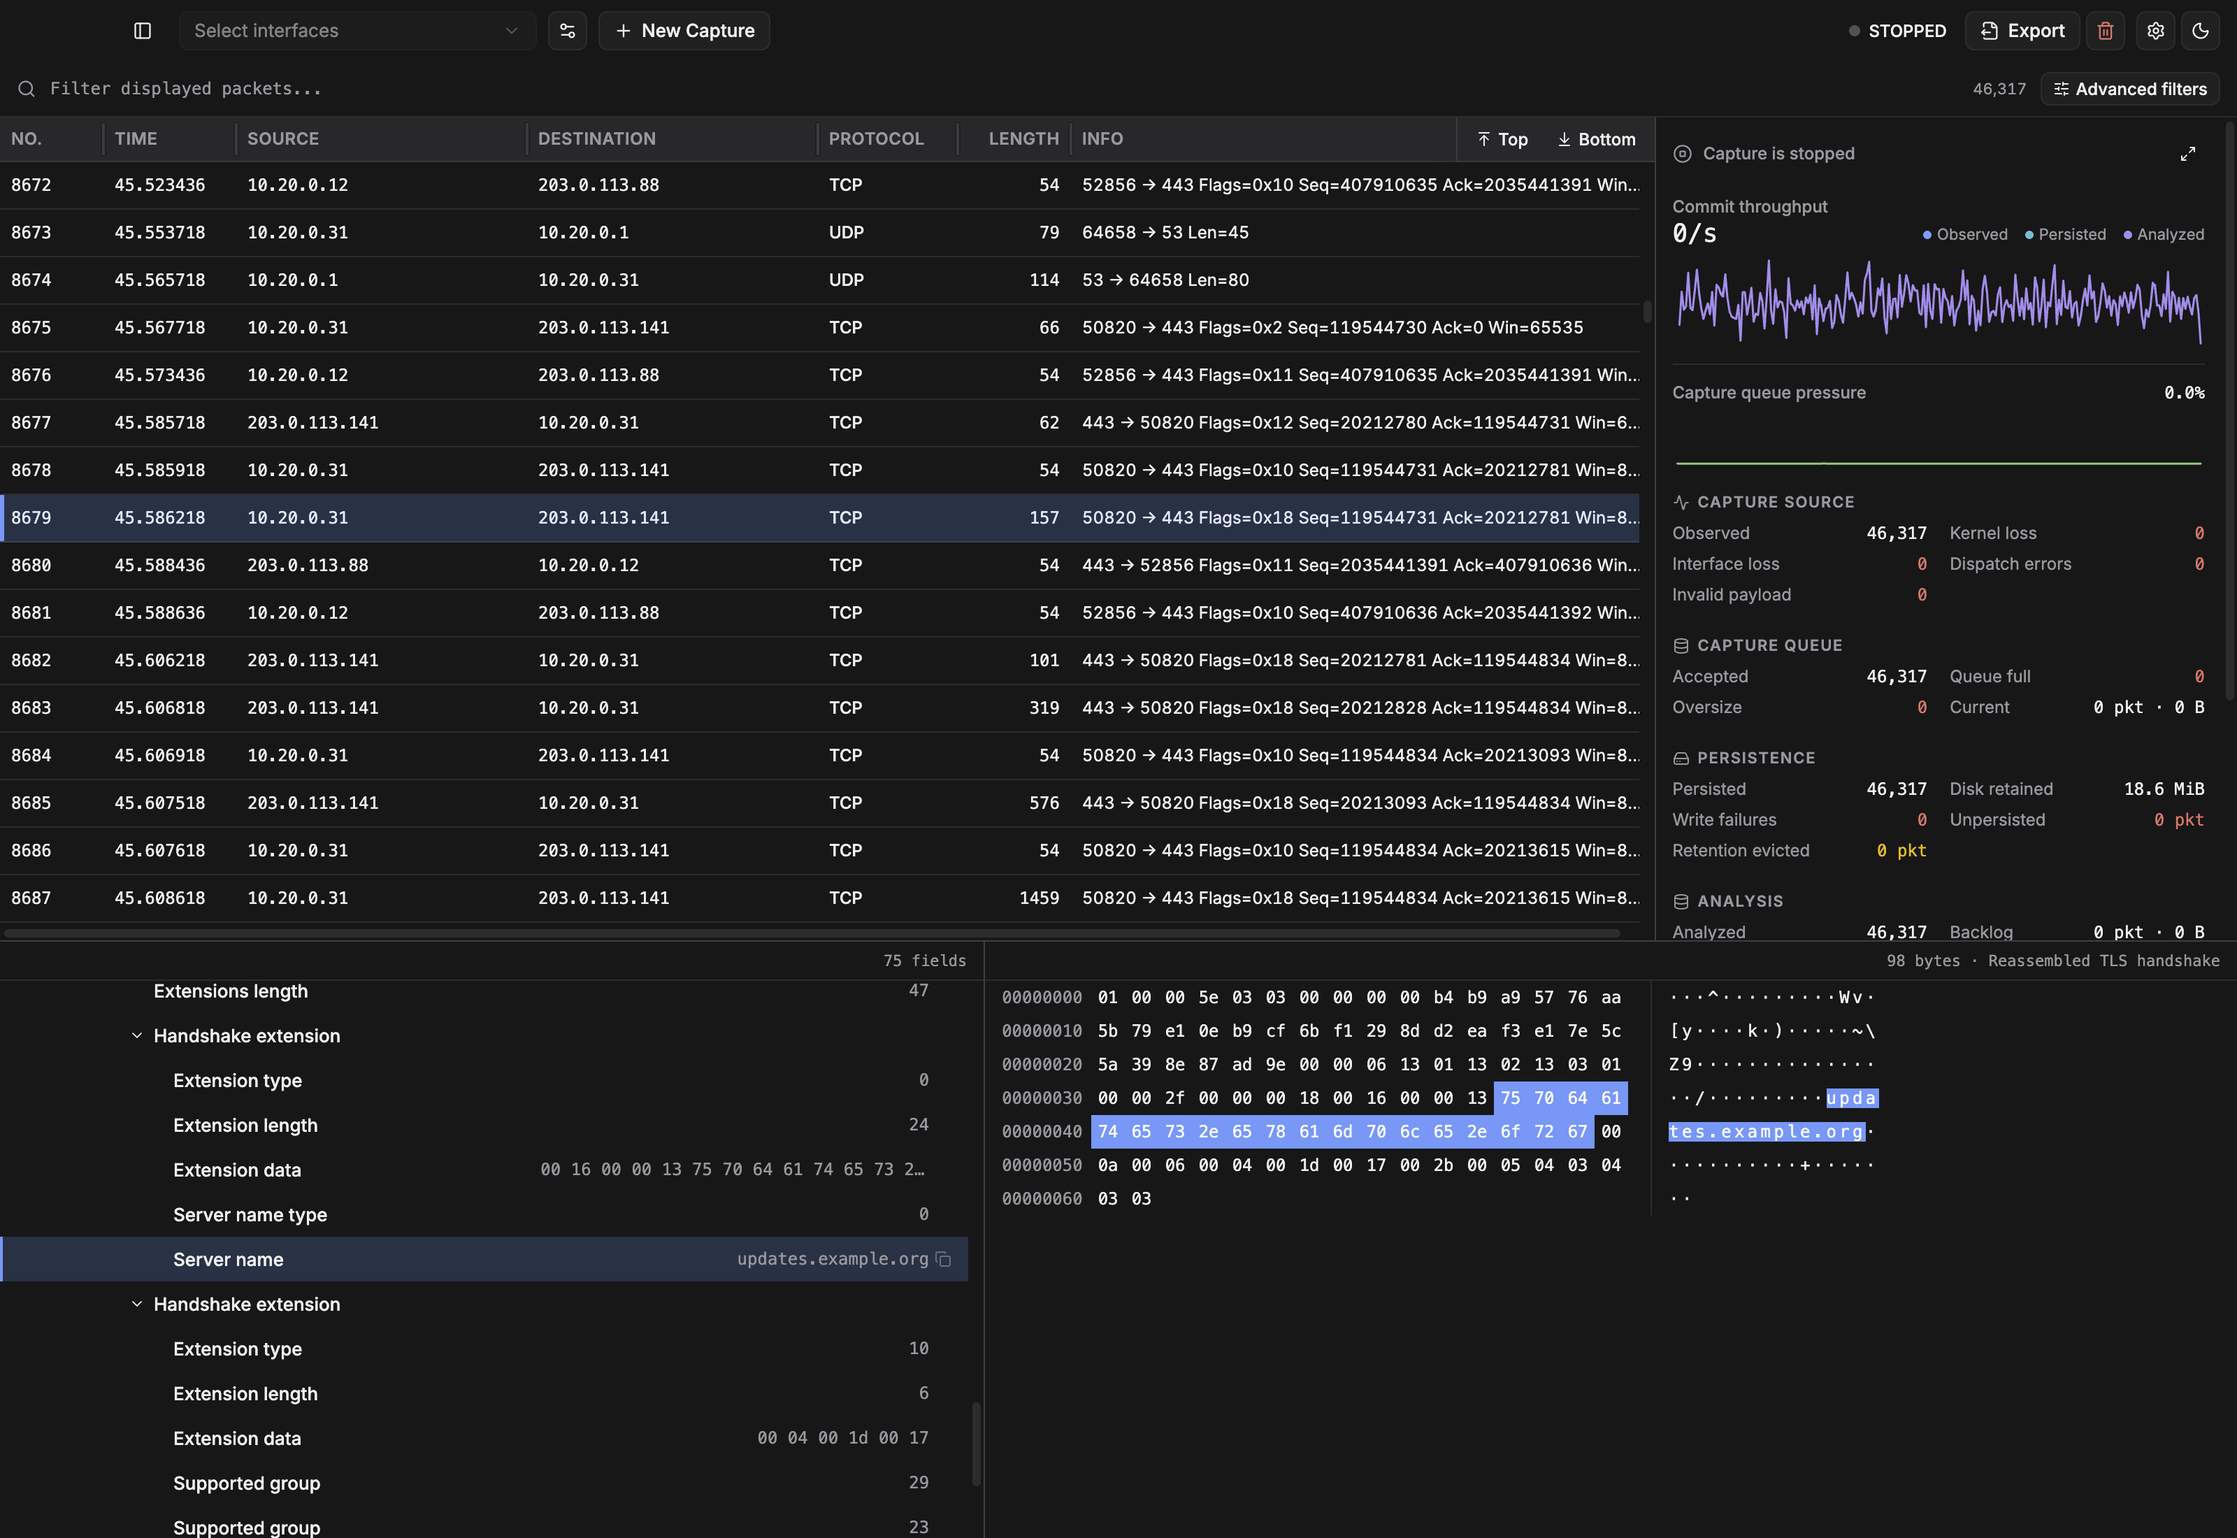
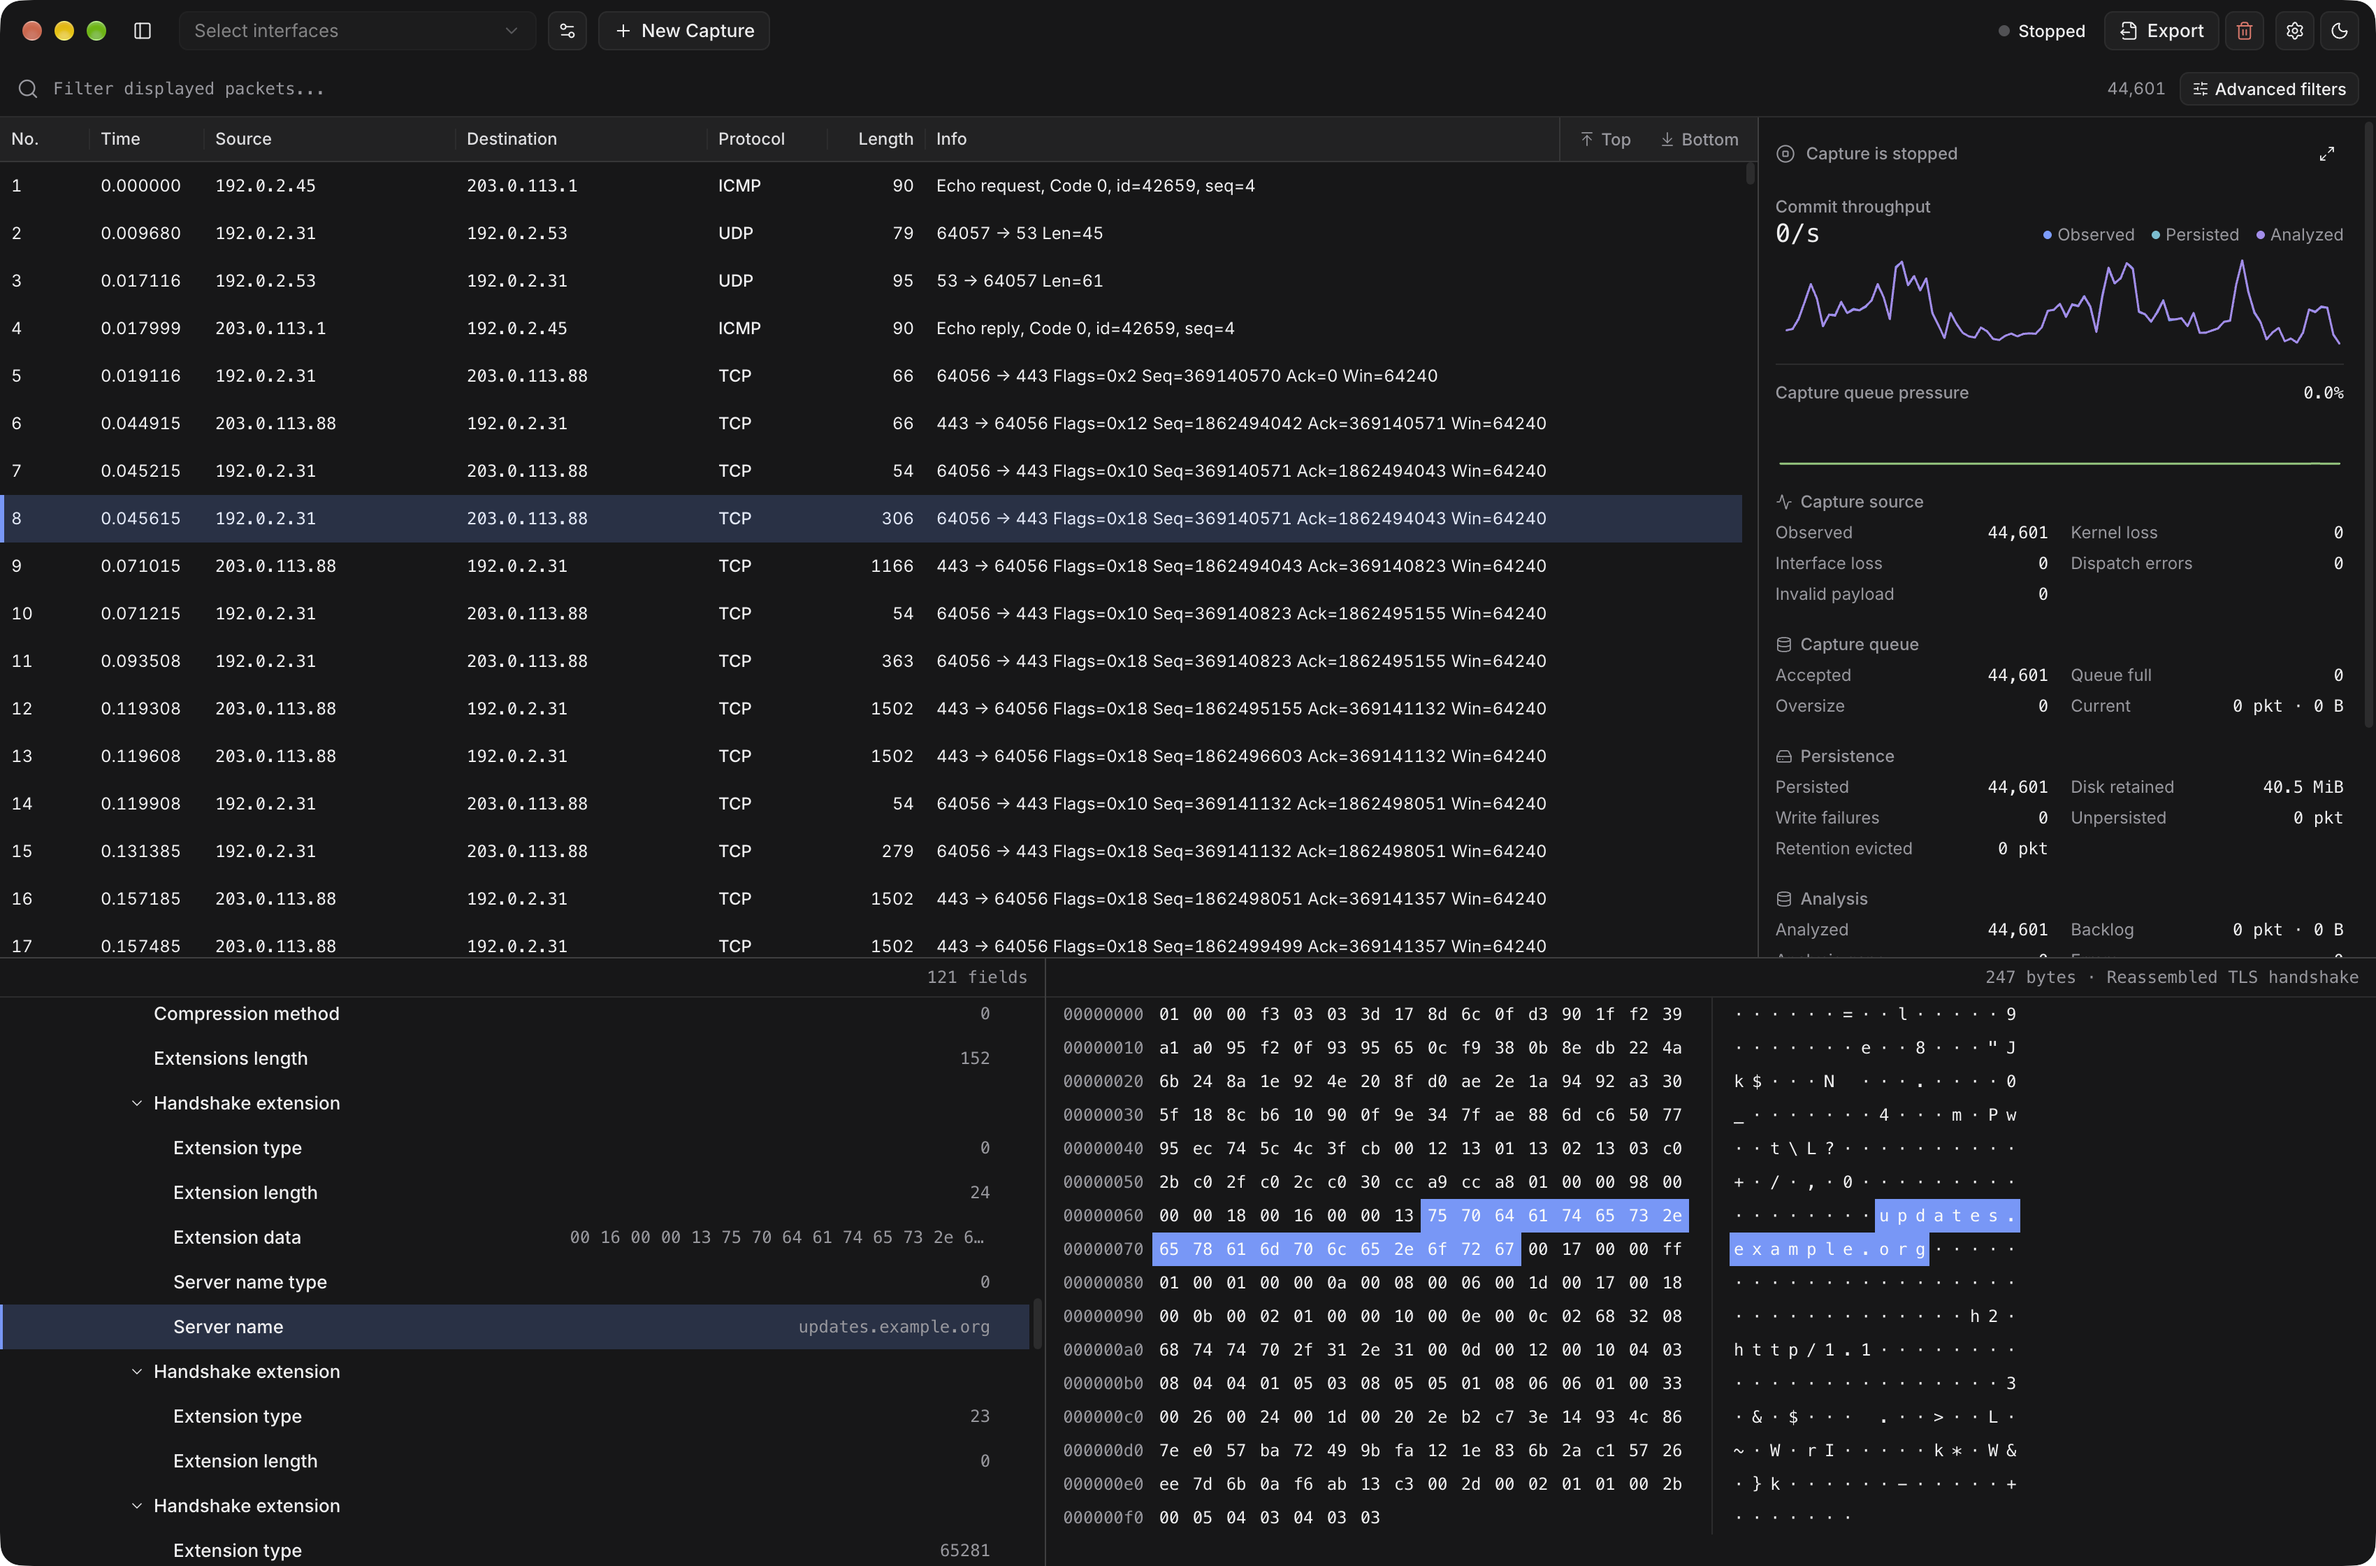
docs: refresh README and landing screenshots from the desktop app
The landing screenshot is now a native window capture that already
includes the macOS window controls, so Screenshot no longer draws them.

diff --git a/apps/site/src/content/client-hello.ts b/apps/site/src/content/client-hello.ts
@@ -1,7 +1,7 @@
 /**
- * Frame 8679 of the synthetic capture shown in the landing screenshots: a TLS 1.3 ClientHello for
- * updates.example.org. Field labels follow Pruftnet's packet tree; byte ranges were verified
- * against Wireshark's dissection of the same frame. Only documentation address ranges are used.
+ * A synthetic TLS 1.3 ClientHello for updates.example.org. Field labels follow Pruftnet's packet
+ * tree; byte ranges were verified against Wireshark's dissection of the same frame. Only
+ * documentation address ranges are used.
  */
 export const clientHelloHex =
[1 lines of base64/hex data omitted]
